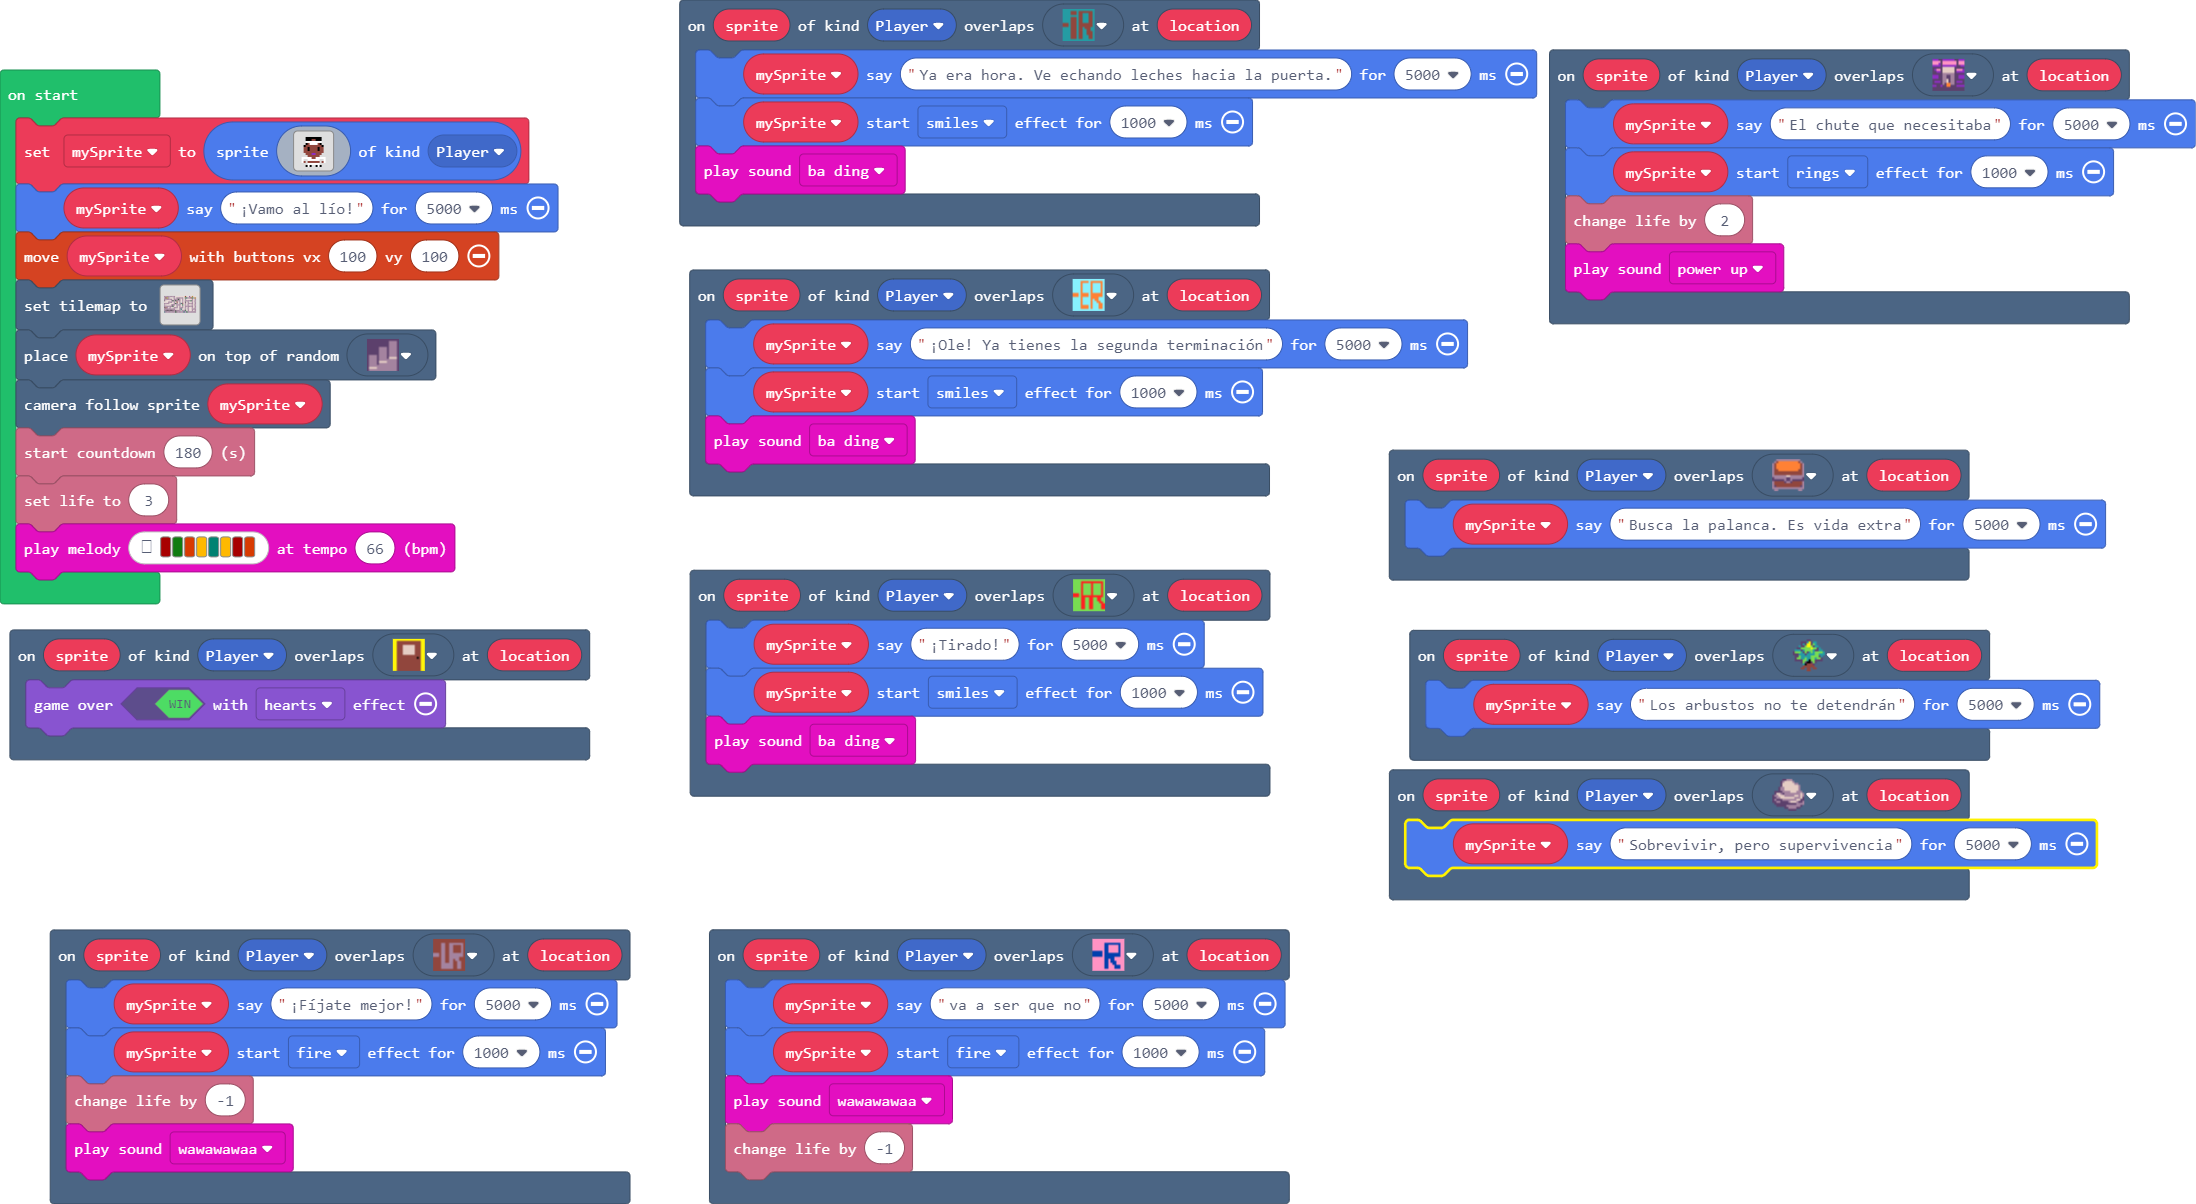
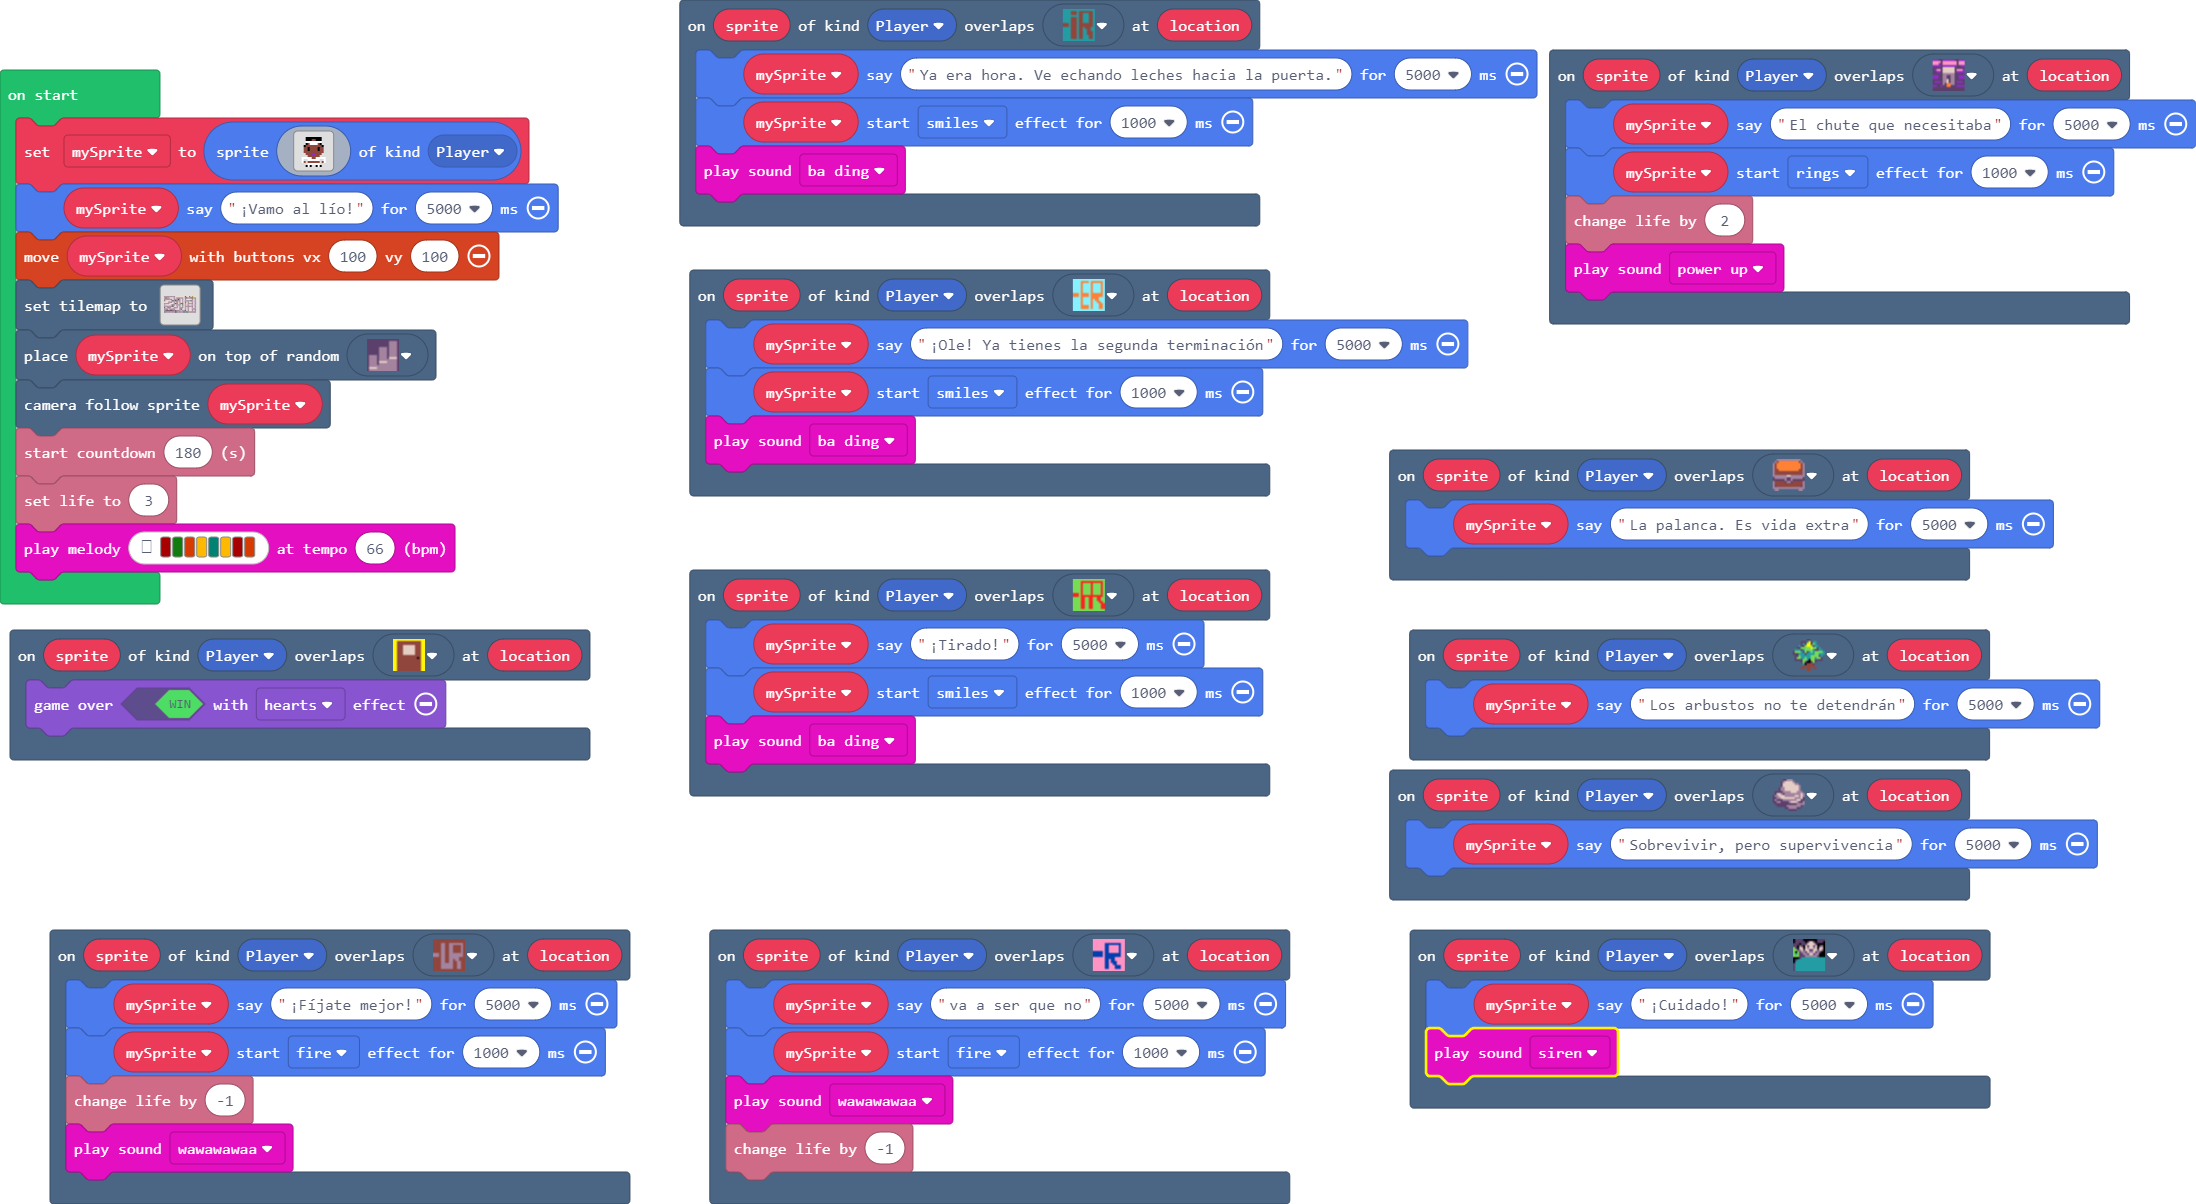
Update main.blocks, main.ts

diff --git a/main.ts b/main.ts
@@ -211,10 +211,14 @@ scene.onOverlapTile(SpriteKind.Player, myTiles.tile7, function (sprite, location
     music.baDing.play()
 })
 scene.onOverlapTile(SpriteKind.Player, sprites.dungeon.chestClosed, function (sprite, location) {
-    mySprite.say("Busca la palanca. Es vida extra", 5000)
+    mySprite.say("La palanca. Es vida extra", 5000)
 })
 scene.onOverlapTile(SpriteKind.Player, myTiles.tile2, function (sprite, location) {
     game.over(true, effects.hearts)
+})
+scene.onOverlapTile(SpriteKind.Player, sprites.builtin.crowd4, function (sprite, location) {
+    mySprite.say("¡Cuidado!", 5000)
+    music.siren.play()
 })
 let mySprite: Sprite = null
 mySprite = sprites.create(img`
@@ -238,7 +242,7 @@ mySprite = sprites.create(img`
 mySprite.say("¡Vamo al lío!", 5000)
 controller.moveSprite(mySprite, 100, 100)
 tiles.setTilemap(tiles.createTilemap(
[2 lines of base64/hex data omitted]
             img`
 . . . . . . . . 2 2 2 2 2 2 2 2 2 2 . 2 . 2 2 
 . 2 . . 2 2 2 . 2 . . . . . 2 . . . . 2 . 2 2 
@@ -248,10 +252,10 @@ tiles.setTilemap(tiles.createTilemap(
 . . . . 2 2 2 . 2 2 2 . . . 2 . 2 . . . . 2 . 
 . 2 2 2 2 . . 2 2 . . . 2 . 2 . 2 . 2 2 . 2 . 
 . . . . . . . 2 2 . 2 . 2 . 2 . . . 2 . . 2 . 
-2 . 2 2 . 2 2 . . . 2 . . . 2 . 2 . 2 2 . 2 . 
-. . . . . . . . 2 2 2 . 2 2 2 . 2 . 2 2 . . . 
+2 2 . . . 2 2 . . . 2 . . . 2 . 2 . 2 2 . 2 . 
+. . . 2 . . . . 2 2 2 . 2 2 2 . 2 . 2 2 . . . 
 . 2 2 2 2 2 2 . 2 . . . . . . . 2 . 2 2 2 2 . 
-2 . . . . . . . 2 . . . . . 2 . . . . . . . . 
+. . . . . . . . 2 . . . . . 2 . . . . . . . . 
 `,
             [myTiles.tile0,sprites.builtin.brick,sprites.vehicle.roadHorizontal,sprites.vehicle.roadIntersection1,sprites.vehicle.roadVertical,sprites.vehicle.roadTurn4,sprites.dungeon.floorLight1,sprites.dungeon.floorDark3,sprites.dungeon.stairEast,sprites.dungeon.stairLarge,sprites.dungeon.stairNorth,sprites.dungeon.greenSwitchDown,sprites.dungeon.doorClosedNorth,sprites.builtin.forestTiles16,sprites.builtin.crowd5,sprites.vehicle.roadIntersection3,sprites.vehicle.roadTurn1,sprites.vehicle.roadTurn2,sprites.builtin.crowd9,sprites.dungeon.hazardSpike,sprites.vehicle.roadTurn3,sprites.vehicle.roadIntersection2,sprites.castle.saplingOak,sprites.castle.shrub,sprites.castle.rock0,sprites.castle.rock2,sprites.castle.rock1,sprites.vehicle.roadIntersection4,sprites.castle.saplingPine,sprites.builtin.crowd1,sprites.builtin.crowd0,sprites.dungeon.buttonTeal,sprites.dungeon.hazardWater,sprites.dungeon.hazardHole,sprites.dungeon.chestClosed,sprites.dungeon.purpleSwitchDown,myTiles.tile1,sprites.dungeon.stairLadder,sprites.builtin.forestTiles0,sprites.dungeon.chestOpen,sprites.dungeon.collectibleRedCrystal,sprites.dungeon.collectibleInsignia,myTiles.tile2,myTiles.tile3,myTiles.tile4,myTiles.tile5,myTiles.tile6,myTiles.tile7,myTiles.tile8,sprites.builtin.crowd4,sprites.builtin.crowd2,sprites.builtin.crowd6,sprites.builtin.crowd7,sprites.dungeon.stairWest],
             TileScale.Sixteen
